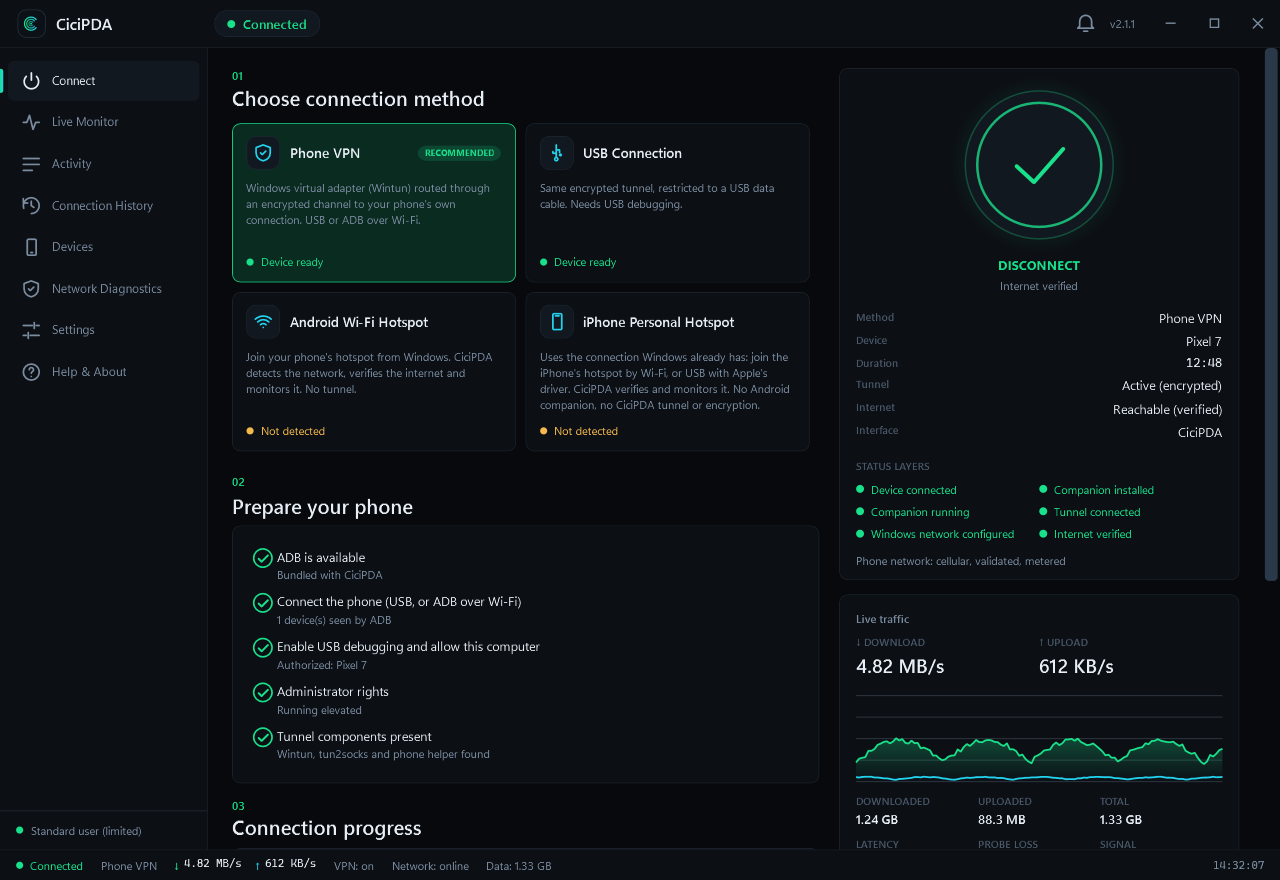
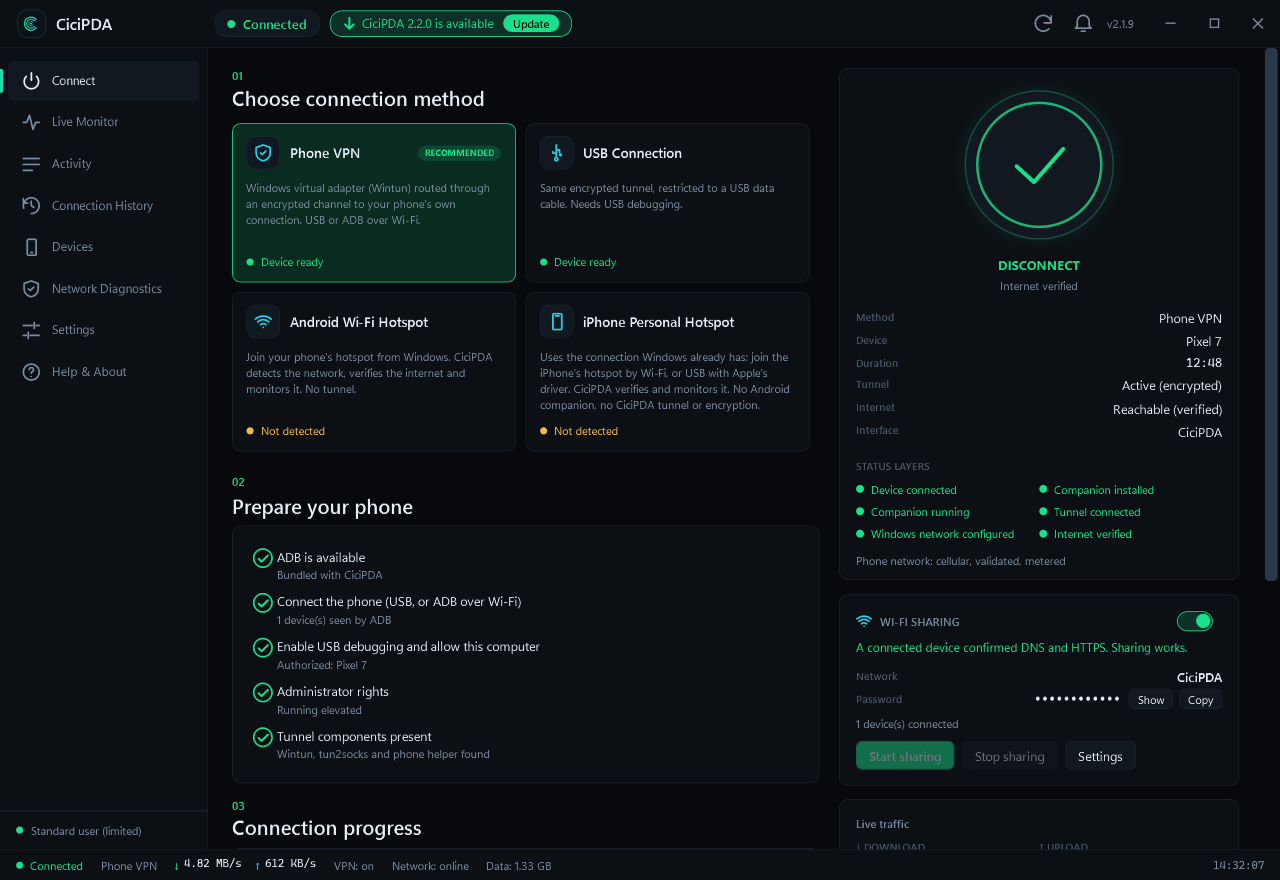
README: sharing card, header update/check controls, accurate hardware status and test count; refreshed screenshots

diff --git a/src/app/ShellViewModel.cs b/src/app/ShellViewModel.cs
@@ -167,11 +167,11 @@ public sealed class ShellViewModel : Observable
         new IndicatorRow { Title = "Tunnel connected" }, new IndicatorRow { Title = "Windows network configured" }, new IndicatorRow { Title = "Internet verified" },
     };
     // ---- Wi-Fi sharing card (Connect page) ----
-    public bool ShareEnabled => Settings.Current.ShareWifi;
+    public bool ShareEnabled => _demo || Settings.Current.ShareWifi;
     public string ShareSsid => Settings.Current.HotspotSsid;
     bool _showPass;
     public bool ShowSharePassword { get => _showPass; set { if (Set(ref _showPass, value)) Raise(nameof(SharePasswordDisplay)); } }
-    public string SharePasswordDisplay { get { var p = Secret.Unprotect(Settings.Current.HotspotPasswordProtected); return p.Length == 0 ? "(not set)" : _showPass ? p : new string('\u2022', Math.Min(p.Length, 12)); } }
+    public string SharePasswordDisplay { get { if (_demo) return "\u2022\u2022\u2022\u2022\u2022\u2022\u2022\u2022\u2022\u2022\u2022\u2022"; var p = Secret.Unprotect(Settings.Current.HotspotPasswordProtected); return p.Length == 0 ? "(not set)" : _showPass ? p : new string('\u2022', Math.Min(p.Length, 12)); } }
     public string ShareStateText { get => _shState; private set => Set(ref _shState, value); }
     string _shState = "";
     public Brush ShareStateBrush { get => _shBrush; private set => Set(ref _shBrush, value); }
@@ -595,6 +595,7 @@ public sealed class ShellViewModel : Observable
         Stages.Clear();
         var titles = new[] { "Detect phone", "Check USB debugging authorization", "Check Android companion", "Install / update companion", "Start companion service", "Establish secure tunnel", "Create virtual adapter", "Configure routes and DNS", "Verify internet access" };
         for (int i = 0; i < titles.Length; i++) Stages.Add(new StageRow { Title = titles[i], Detail = det[i], State = ItemState.Ok, Skipped = i == 3 });
+        ShareStateText = "A connected device confirmed DNS and HTTPS. Sharing works."; ShareStateBrush = Theme.Brush("Green"); ShareClientsText = "1 device(s) connected"; ShowSharePassword = false;
         UpdateAvailable = true;
         if (Environment.GetCommandLineArgs().Contains("--demo-update")) { _update = new UpdateInfo(new UpdateManifest { Version = "2.2.0" }, new Version(2, 2, 0), new Uri("https://github.com/")); UpdateBusy = true; SetUpdatePhase("Downloading", "42%", 0.42, false); }
         Raise(nameof(UpdateBanner));

diff --git a/README.md b/README.md
@@ -60,7 +60,7 @@ Settings, history and logs live per user in `%LocalAppData%\CiciByte\CiciPDA`. U
 
 ### Updates
 
-CiciPDA checks the signed release channel shortly after start and every six hours (toggle in **Settings**). When a new version exists an **Update** button appears; the installer is downloaded only from GitHub, verified against a signed SHA-256, and run after you confirm — your connection is closed and your network settings restored first. The Android companion is updated the same way (signed metadata → hash → pinned signer certificate → Android's own signature check).
+CiciPDA checks the signed release channel shortly after start and every six hours (toggle in **Settings**), and the **refresh button in the header** checks on demand. When a new version exists a green **Update** pill appears in the header. Press it once: it shows the download percentage with a progress bar, then *Verifying* and *Installing*, and is disabled meanwhile so it cannot be pressed twice. The installer is downloaded only from GitHub, verified against a signed SHA-256, and run after you confirm — your connection is closed and your network settings restored first, and CiciPDA restarts afterwards (with the usual UAC prompt). The Android companion is updated the same way (signed metadata → hash → pinned signer certificate → Android's own signature check).
 
 ## Platform support
 
@@ -82,7 +82,7 @@ Release assets are named per platform so ports can be added later without renami
 | **Android Wi-Fi hotspot** | You join the phone's hotspot; CiciPDA detects it, verifies the internet and monitors the interface. No tunnel. | — | Implemented · awaiting validation |
 | **iPhone Personal Hotspot** | Wi-Fi **or** Apple USB Ethernet adapter that Windows already provides; CiciPDA verifies and monitors it. **No Android companion and no CiciPDA tunnel.** | — | Implemented · awaiting validation |
 
-Optional: **Wi-Fi sharing from the PC** through Windows Mobile Hotspot, bound to the CiciPDA adapter only (never an unrelated connection), started only after internet verification.
+Optional: **Wi-Fi sharing from the PC** through Windows Mobile Hotspot, controlled from the *Wi-Fi sharing* card on the Connect page. It is bound to the CiciPDA adapter only (never an unrelated connection), starts only after the internet has been verified, never takes over a hotspot you already run, and restores your previous hotspot name, password and band when it stops.
 
 ## How it works
 
@@ -102,12 +102,14 @@ Details: [protocol and limits](docs/PROTOCOL.md) · [Android companion & OEM not
 
 ## Features
 
+- **Wi-Fi sharing card** on the Connect page: on/off switch, network name, masked password with Show/Copy, live state (waiting for a verified connection → starting → active → device connected → device internet verified, or the exact reason it is unavailable), connected-device count and Start/Stop buttons
 - Connect · Live Monitor · Activity · Connection History · Devices · Network Diagnostics · Settings · Help
 - Real-time download/upload, session totals, latency, probe loss, uptime, phone signal and network type
 - 14 diagnostic tests with plain-language results and suggested fixes
 - Local, persistent connection history and a severity-tagged activity feed (secrets are masked)
 - Keyboard shortcuts: `Ctrl+1…8` pages, `Ctrl+Enter` connect/disconnect, `F5` refresh devices
 - English and Turkish interface, two themes
+- Header controls: connection state, **Update** pill with progress, **Check for updates**, notifications, version
 
 ## Security & privacy
 
@@ -122,7 +124,7 @@ Details: [protocol and limits](docs/PROTOCOL.md) · [Android companion & OEM not
 
 - Not a full layer-3 VPN and **not WireGuard**: TCP and UDP datagrams are relayed (Windows DNS is ordinary UDP/53 sent through the phone to the DNS servers in Settings); ICMP (ping) is not carried; IP fragments are dropped. IPv6 is routed into the tunnel only when leak protection is on and works only if the phone's network has IPv6. iPhone and hotspot-join modes are not encrypted by CiciPDA.
 - Android may stop background apps on aggressive battery managers; CiciPDA detects it and reconnects. See the [OEM notes](docs/ANDROID_COMPANION.md).
-- **Nothing has been validated on a physical phone yet.** The automated suite (85 tests, including the real Java relay over loopback) cannot replace it; the checklist is in [docs/HARDWARE_TEST_PLAN.md](docs/HARDWARE_TEST_PLAN.md) and the honest status is in [docs/DEVELOPMENT.md](docs/DEVELOPMENT.md).
+- **Not validated end to end on hardware yet.** On a real Android 16 phone the device detection, authorization, signed companion install, foreground service and encrypted channel have run, and the Windows virtual adapter and network configuration were created; the final internet verification (DNS through the phone) has **not** passed yet, so Wi-Fi sharing has never actually started. The automated suite (104 tests, including the real Java relay and the real bundled `tun2socks.exe`/`netsh` command lines) cannot replace it; the checklist is in [docs/HARDWARE_TEST_PLAN.md](docs/HARDWARE_TEST_PLAN.md) and the honest status is in [docs/DEVELOPMENT.md](docs/DEVELOPMENT.md).
 
 ## Build from source
 

diff --git a/docs/DEVELOPMENT.md b/docs/DEVELOPMENT.md
@@ -32,7 +32,7 @@ The Windows Mobile Hotspot API lets CiciPDA read and write the **SSID, passphras
 
 ## Build and test results (2026-11-06)
 * `dotnet build` (core, app, tests, ReleaseSigner): 0 errors, 0 warnings.
-* `dotnet test`: **85 passed, 0 failed** (non-elevated Windows PC, no phone). Coverage: relay protocol against the real Java relay (TCP, UDP IPv4/IPv6, 14 KB datagram, status, wrong key, SOCKS CONNECT/UDP ASSOCIATE, restart with the same key); release trust chain (tampered APK/metadata, same-server hash not trusted, unsafe names); APK certificate parser vs `apksigner`; install-failure classification; session-key handling (no file, masked in logs, stdin source assertion); Android manifest/service source assertions; `NetshPlan` (split routes, non-persistent, DNS scope, MTU clamp, bypass ordering, IPv6); recovery of a real orphan `tun2socks.exe` (and that an unrelated process is never killed); iPhone/Wi-Fi interface selection; hotspot capability queries (real WinRT) and the client probe page; UDP DNS check, IPv6 report, rollback route parser; updater manifest verification; ADB location (bundled-first, override, fallback); real release artifacts against the compiled-in production pins.
+* `dotnet test`: **104 passed, 0 failed** (non-elevated Windows PC, no phone). Coverage: relay protocol against the real Java relay (TCP, UDP IPv4/IPv6, 14 KB datagram, status, wrong key, SOCKS CONNECT/UDP ASSOCIATE, restart with the same key); release trust chain (tampered APK/metadata, same-server hash not trusted, unsafe names); APK certificate parser vs `apksigner`; install-failure classification; session-key handling (no file, masked in logs, stdin source assertion); Android manifest/service source assertions; `NetshPlan` (split routes, non-persistent, DNS scope, MTU clamp, bypass ordering, IPv6); recovery of a real orphan `tun2socks.exe` (and that an unrelated process is never killed); iPhone/Wi-Fi interface selection; hotspot capability queries (real WinRT) and the client probe page; UDP DNS check, IPv6 report, rollback route parser; updater manifest verification; ADB location (bundled-first, override, fallback); real release artifacts against the compiled-in production pins.
 * Release build (`installer/build-installer.ps1`): clean self-contained win-x64 publish, Inno Setup 6.7.3 compile, then `validate-release.ps1` **PASSED**: publish folder contains every runtime file, ADB files byte-identical to `third_party/adb`, companion APK hash equals the signed metadata, update manifest hash equals the installer, and the **installer was actually executed** (per-user, silent, into a temp folder), every file was checked in the installed copy and the uninstaller removed it. An MSBuild target also fails the build if a required runtime file is missing from the output.
 * Live update channel (published v2.1.0, verified earlier): the updater was offered 2.1.0 as a 2.0.0 client, nothing as a current client, and the real installer downloaded and passed the signed checksum. **The 2.1.1 contents described here are not yet published.**
 
